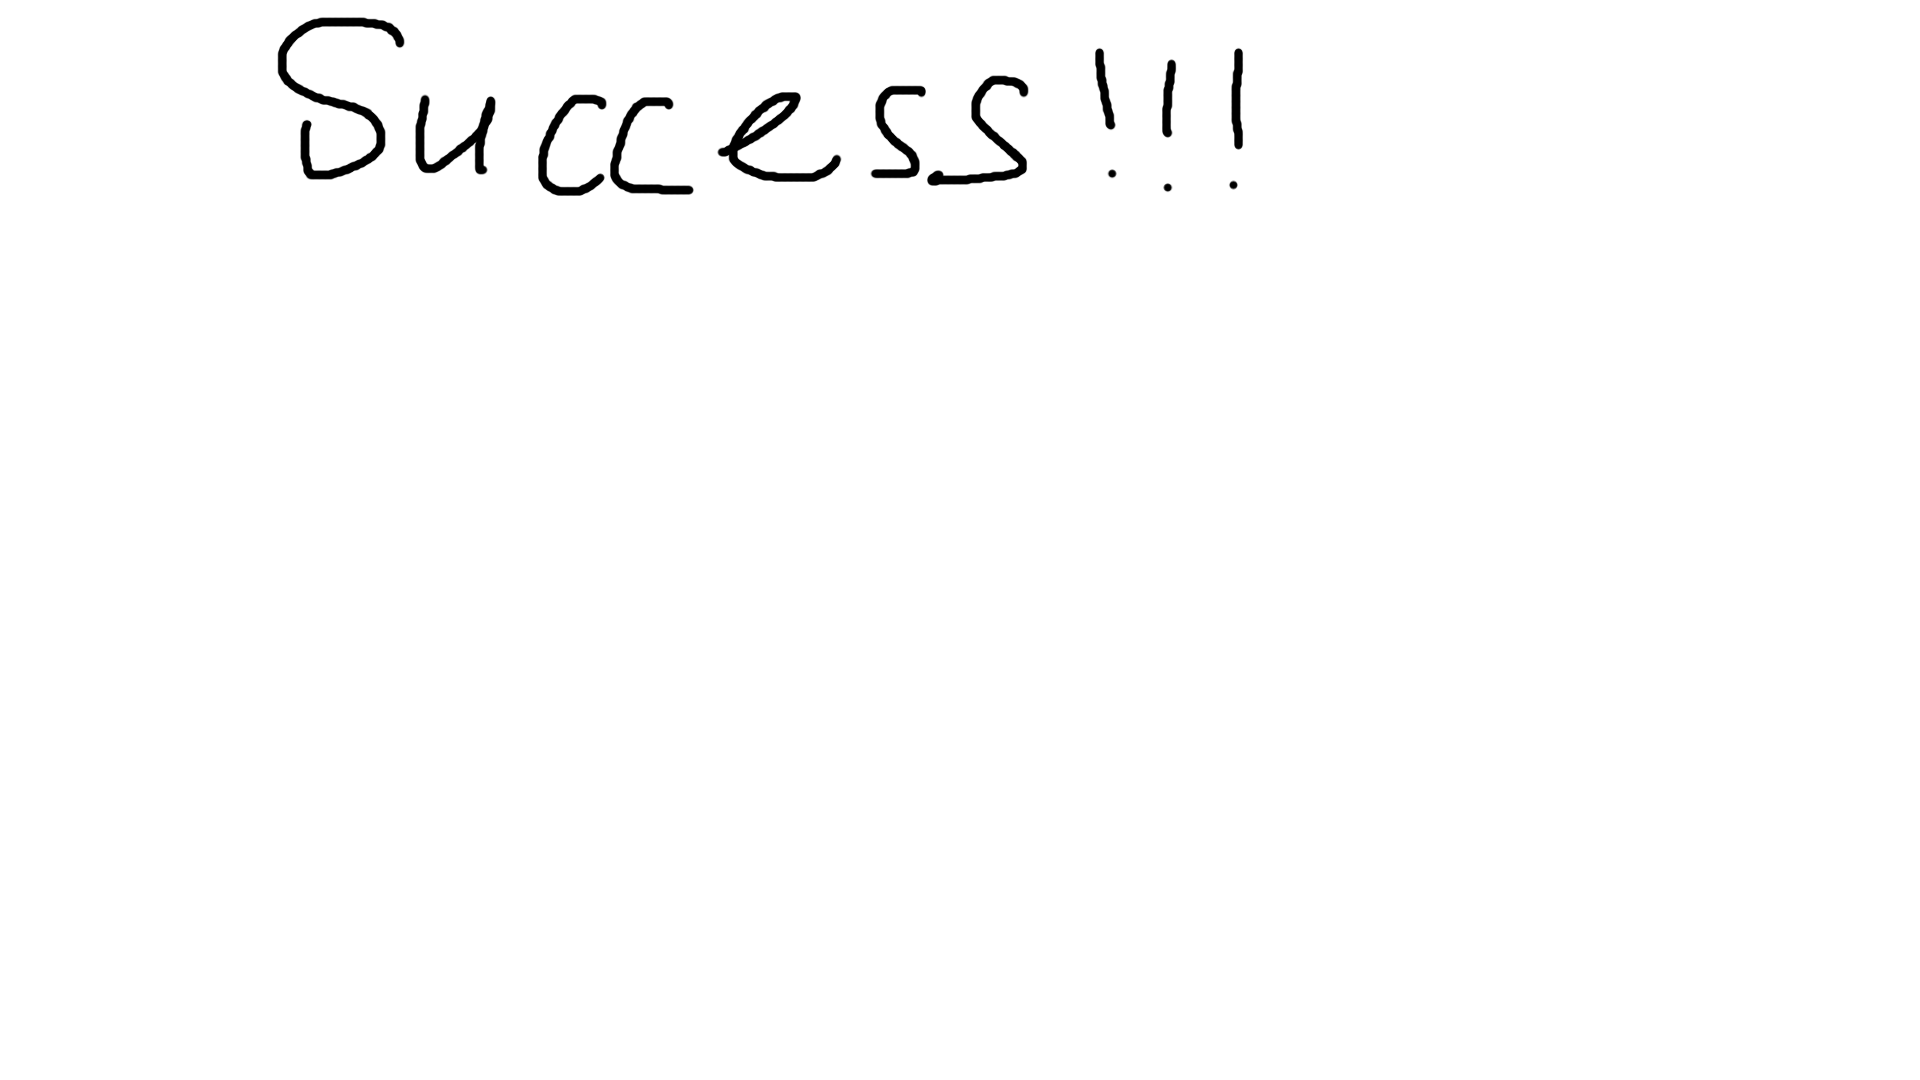
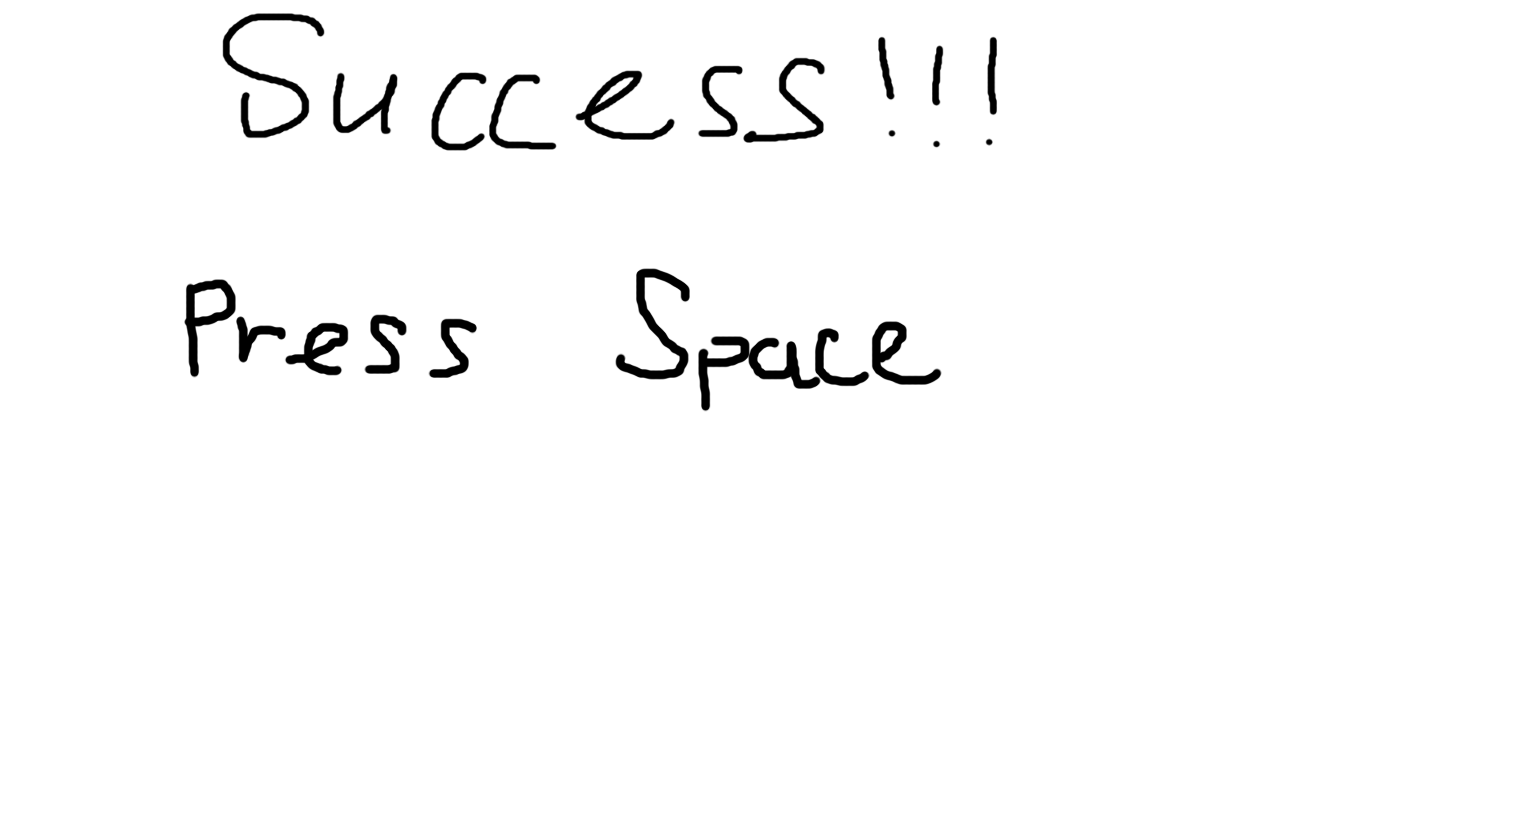
Huge update, adds, and changes
Added temp pictures as instructions/feedback to user, imported ctypes,
organized code better, fixed window resolution issues, changed time to
milliseconds from seconds, added a results file that's a data file from
trial results, changed background color to black and balls to white,
made the mouse cursor reset to the middle,

Changed region(s): [[0.374, 0.3012, 0.6234, 0.4819], [0.0935, 0.3313, 0.3117, 0.4518]]

diff --git a/Study.py b/Study.py
@@ -1,5 +1,8 @@
+#################################################################
+## Imports Section
+#################################################################
 #Package Imports
-import pygame, sys, tkinter as tk, math
+import pygame, sys, tkinter as tk, math, ctypes
 from pygame.locals import *
 from tkinter import messagebox
 from pygame.locals import *
@@ -17,6 +20,9 @@ from random import *
 ##	print ( "You have pressed a, b, and c" )
 #########################################
 
+#################################################################
+## FUNCTIONS Section
+#################################################################
 # Function quit with a dialogue option
 def quit():
 	root = tk.Tk()
@@ -27,6 +33,10 @@ def quit():
 		pygame.quit()
 		sys.exit()
 
+#################################################################
+## Game Set Up Section
+#################################################################
+
 # Initilizer for pygame
 pygame.init()
 print("Pygame initilized")
@@ -35,9 +45,9 @@ print("Pygame initilized")
 FPS = 30
 fpsClock = pygame.time.Clock()
 
-# With and Height of the app window
-WIDTH = 1440
-HEIGHT = 900
+# Width and Height of the app window
+WIDTH = 1540
+HEIGHT = 830
 
 # Displaying the window
 DISPLAYSURF = pygame.display.set_mode([WIDTH, HEIGHT])
@@ -45,11 +55,29 @@ DISPLAYSURF = pygame.display.set_mode([WIDTH, HEIGHT])
 # Window Caption
 pygame.display.set_caption('HCI Gold Group - Study')
 
-# Game Clock Timer Event
-# Stop a timer with" pygame.time.set_timer ( pygame.USEREVENT , 0 ) "
-pygame.time.set_timer(pygame.USEREVENT, 1000)
-gameSeconds = 0
+#################################################################
+## User Created Event Section
+#################################################################
 
+# Game Clock Timer Event
+# Stop timer with" pygame.time.set_timer ( pygame.USEREVENT , 0 ) "
+pygame.time.set_timer(pygame.USEREVENT, 1)
+gameMilliseconds = 0
+
+#################################################################
+## File Control Section
+#################################################################
+
+f = open('results.txt', 'w')
+printLine = ("Trials Done " + ", " + "Current Trial " +", "+ "Milliseconds Spent on Trial " + ", "+ "# of MisClicks" + "\n")
+f.write(printLine)
+
+#################################################################
+## Inilitize Variables Section
+#################################################################
+
+# Data record line to be printed
+printLine = ""
 # A trial hasn't started yet, so data won't be recorded
 inTrials = False
 # Check for completion of the instructions 
@@ -57,6 +85,9 @@ instructionsComplete = False
 # Check for completion of the tutorials and the time of completion
 tutorialsComplete = False
 tutorialsDoneTime = 0
+# Trial Time markers
+trialStartTime = 0
+trialTimeTaken = 0
 # Number of trials completed
 trialDoneCounter = 0
 # Number of testing blocks completed 
@@ -66,7 +97,9 @@ clickErrors = 0
 # Starting check 
 start = False
 # Set up colors
-WHITE = (255, 255, 255)
+BLACK = (0,0,0)
+# Main logic controler
+gameDone = False
 
 # Trial possibility list that will be used to build random trial stacks
 # Types: size-radius=(Small, Medium, Large), distance-to-center=(close, far),      direction=(Left, Right)
@@ -79,7 +112,9 @@ Fa = 512
 Le = -1
 Ri = 1
 # Organized list sorted by Size then direction then distance
-PossibleTrialsList = [ [Sm,Cl,Le], [Sm,Fa,Le], [Sm,Cl,Ri], [Sm,Fa,Ri],   [Me,Cl,Le], [Me,Fa,Le], [Me,Cl,Ri], [Me,Fa,Ri],   [La,Cl,Le], [La,Fa,Le], [La,Cl,Ri], [La,Fa,Ri] ]
+PossibleTrialsList = [ [Sm,Cl,Le], [Sm,Fa,Le], [Sm,Cl,Ri], [Sm,Fa,Ri],   
+			       [Me,Cl,Le], [Me,Fa,Le], [Me,Cl,Ri], [Me,Fa,Ri],   
+			       [La,Cl,Le], [La,Fa,Le], [La,Cl,Ri], [La,Fa,Ri]        ]
 # Initiliztion of the trial block (1 block = 12 trials)
 trialBlock = []
 # The random function will give a predictible pattern each run
@@ -96,82 +131,97 @@ print("First block generated: " + str(trialBlock) )
 currentTrial = trialBlock.pop()
 print("First trial: " + str(currentTrial))
 
+#################################################################
+## Main Logic Section
+#################################################################
+
 # Main game loop
-while True: 
+while gameDone == False: 
 	# Pygame event handler
 	for event in pygame.event.get():
 		
 		# Player clicks the red "X" button on window
 		if event.type == QUIT :
-			print("red x quit")
 			quit()
 			
-		# Add 1 to seconds to gameSeconds var every 1000ms	
+		# Add 1 to seconds to gameMilliSeconds var every 1000ms	
 		elif event.type == pygame.USEREVENT: 
-			gameSeconds += 1
+			gameMilliseconds += 1
 		
 		# Display the instructions if they haven't been read yet
-		if instructionsComplete == False and start == False:
+		elif instructionsComplete == False and start == False:
 			start = True
-			print("instructions loaded")
 			instructionsImg = pygame.image.load('instructions.png')
 			DISPLAYSURF.blit(instructionsImg, [0, 0])
-			print("after instructions loaded")
 		
 		# Key Press Down Event (ASCII Codes)
-		if event.type == pygame.KEYDOWN:
+		elif event.type == pygame.KEYDOWN:
 			print("Keydown event activated")
 			
 			# If excape key was pressed quit the game
 			if event.key == 27: 
-				print("ESC Pressed")
 				quit()	
 				
 			#Pressing space to complete the instructions and then tutorials to move on to the trials
 			# If space bar is pressed
-			if event.key == 32:
+			elif event.key == 32:
 				print("Spacebar Pressed")
-				print(str(gameSeconds))
+				print(str(gameMilliseconds))
 				#Allow the player to complete the instructions 
-				# if they haven't yet and 15 seconds or more have passed
-				if instructionsComplete == False and gameSeconds >= 5:
+				# if they haven't yet and 5 seconds or more have passed
+				if instructionsComplete == False and gameMilliseconds >= 1500:
 					print("Instructions Completed")
-					instructionsComplete == True
-					# Clear the screen of the instructions
-					DISPLAYSURF.fill( (0,0,0) )
-					
+					print(str(instructionsComplete))
+					instructionsComplete = True
 				
 				# Start doing trials (tutorial first)
-				if instructionsComplete == True:
+				elif instructionsComplete == True:
 					print(str(instructionsComplete))
-					print("In trials now and drew the first trial circle")
+					print("In trials now and drew circle")
 					# Now in trials
 					inTrials = True
+					
+					# Clear the screen
+					DISPLAYSURF.fill( (255,255,255) )
+					
+					# Reset PrintLine and click errors count
+					printLine = ''
+					clickErrors = 0
+					
+					# Center the mouse cursor
+					ctypes.windll.user32.SetCursorPos(WIDTH//2, HEIGHT//2 + 33)
+					
+					# Mark the start time of the trial in milliseconds
+					trialStartTime = gameMilliseconds
 					
 					print( str(int(WIDTH/2+(currentTrial[1]*currentTrial[2]))) )
 					print( str(int(HEIGHT/2)) )
 					print( str(currentTrial[0]) )
 					print( str(currentTrial[2]) )
 					# Draw the current trial circle (when space bar is pressed) 
-					pygame.draw.circle(DISPLAYSURF, WHITE, [20, 20], 1000)
-					# pygame.draw.circle(DISPLAYSURF, WHITE, [WIDTH//2+(currentTrial[1] * currentTrial[2]), HEIGHT//2], currentTrial[0], 0)
+					#pygame.draw.circle(DISPLAYSURF, WHITE, [20, 20], 1000)
+					pygame.draw.circle(DISPLAYSURF, BLACK, [WIDTH//2+(currentTrial[1] * currentTrial[2]), HEIGHT//2], currentTrial[0], 0)
 					
 					# Current trial being completed
 					trialDoneCounter += 1
 					
+					print(str(trialDoneCounter))
+					
 					# if the tutorials haven't been done yet, and the player has completed 3 or more test trials 
-					if trialDoneCounter >=3 and tutorialsComplete == False:
+					if trialDoneCounter >=4 and tutorialsComplete == False:
 						print("Tutorials Completed" + str(tutorialsComplete))
 						#mark the time that the tutorials were completed
-						tutorialsDoneTime = gameSeconds
+						tutorialsDoneTime = gameMilliseconds
 						# Mark the tutorials as completed
-						tutorialsComplete == True
+						tutorialsComplete = True
 						# Reset the trial block so it gets regenerated for real trials
 						trialBlock = []
 						# Reset the number of trials completed as the previous ones are just tutorials
 						trialDoneCounter = 0
 						# Clear the screen of the last trial
-						DISPLAYSURF.fill( (0,0,0) )
+						DISPLAYSURF.fill( (255,255,255) )
+						TutorialCompleteImg = pygame.image.load('TutorialComplete.png')
+						DISPLAYSURF.blit(TutorialCompleteImg, [0, 0])
 				
 		# Mouse Press Down Event		
 		elif event.type == pygame.MOUSEBUTTONDOWN and inTrials == True:
@@ -179,24 +229,25 @@ while True:
 			# Set the position of the mouse as x and y when clicked
 			x, y = event.pos
 			
-			click = DISPLAYSURF.get_at(pygame.mouse.get_pos()) == WHITE
+			click = DISPLAYSURF.get_at(pygame.mouse.get_pos()) == BLACK
 			
 			# Sucessful click on the circle object
 			if click == 1:
 				print("Click successful")
 				##Do other stuff as well like print to a file about the trial info, errors, time completed, etc
 				
+				# Prepair Print Line and write record to file
+				printLine = (str(trialDoneCounter) + ", " + str(currentTrial) +", "+ str(gameMilliseconds-trialStartTime) + ", "+ str(clickErrors) + "\n")
+				f.write(printLine)
+				
 				# Clear the surface of the completed trial circle
-				DISPLAYSURF.fill( (0,0,0) )
+				DISPLAYSURF.fill( (255,255,255) )
 				## Display a success message or make a success sound
 				successImg = pygame.image.load('success.png')
-				# Clear the surface of the success message
-				DISPLAYSURF.fill( (0,0,0) )
+				DISPLAYSURF.blit(successImg, [0, 0])
 				
 				# If currently in a trial
 				if inTrials == True:
-					# Increase successful trial counter
-					trialDoneCounter += 1
 
 					# If test block is empty generate the next block
 					if not trialBlock:
@@ -211,7 +262,7 @@ while True:
 							elif choice == 2: # Insert the trial at the start of the block
 								trialBlock.insert(0,trial)
 							else: # Insert the trial at the middle of the block
-								trialBlock.insert(len(trialBlock)/2,trial)
+								trialBlock.insert(len(trialBlock)//2,trial)
 										
 					# Pop the current test block stack to get the next trial
 					currentTrial = trialBlock.pop()
@@ -229,17 +280,21 @@ while True:
 		## Display number of trials completed vs needed to do yet (i.e. 2/120)
 		## Code to do this ^ here	
 		
-		if blocksCompleted == 10:
+		elif blocksCompleted == 10:
 			print("10 blocks completed")
-			##Do other stuff as well like print maybe
-			pygame.quit()
-			sys.exit()
+			gameDone = True
 			
 	# Draw/Update the screen		
 	pygame.display.update()
 	
 	# Tick the fps clock
 	fpsClock.tick(FPS)
+	
+if gameDone == True:
+		##Do other stuff as well like print maybe
+		DISPLAYSURF.blit(successImg, [0, 0])
+		endImg = pygame.image.load('end.png')
+		DISPLAYSURF.blit(endImg, [0, 0])
 	
 	
 	
